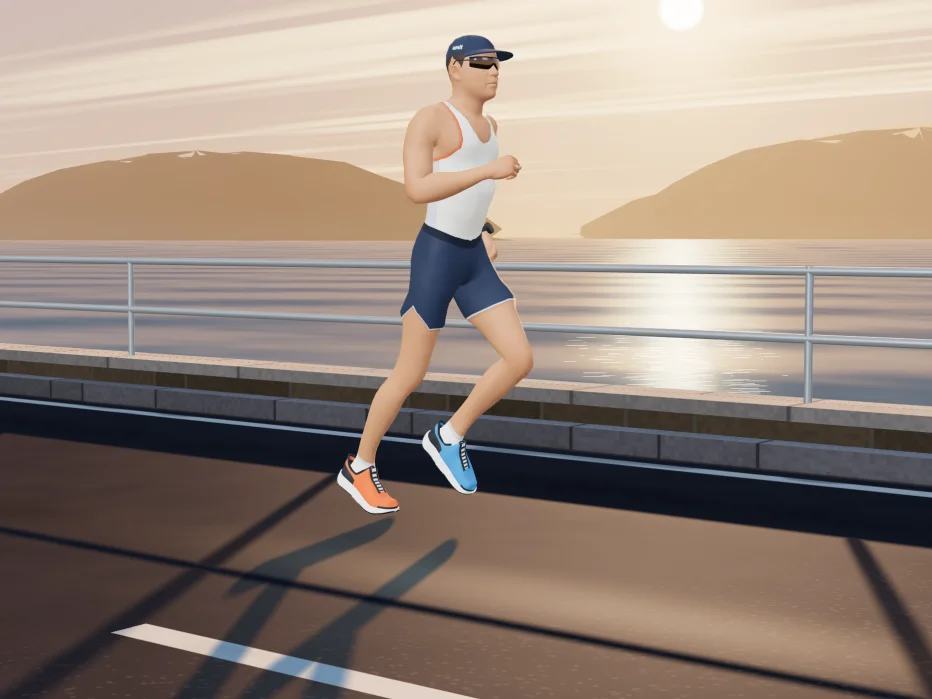
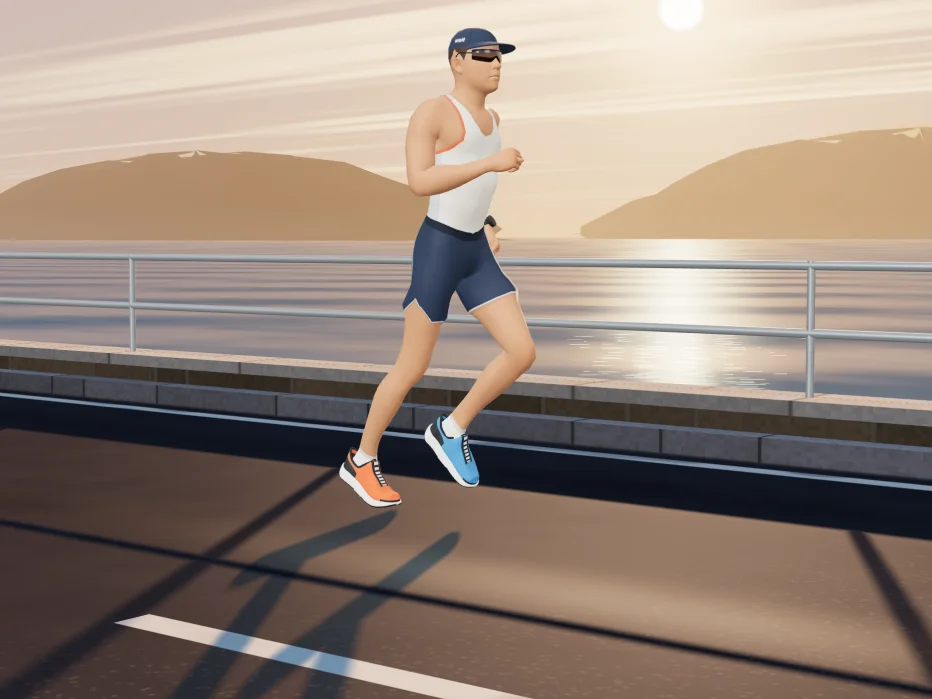
fix(running-form): bring the sun, rim and fill light colours closer so both legs read as one skin tone

Changed region(s): [[0.0, 0.3605, 1.0, 1.0], [0.4356, 0.03, 0.5601, 0.3605]]

diff --git a/explainers/running-form/src/scene/lighting.ts b/explainers/running-form/src/scene/lighting.ts
@@ -14,7 +14,7 @@ const SUN_DISTANCE_M = 100;
 
 const RUN_LIGHT: Record<LightName, LightSetting> = {
   key: {
-    color: '#ffc58e',
+    color: '#ffd9b5',
     intensity: 2.6,
     position: [
       SUN_DIR[0] * SUN_DISTANCE_M,
@@ -22,8 +22,8 @@ const RUN_LIGHT: Record<LightName, LightSetting> = {
       SUN_DIR[2] * SUN_DISTANCE_M,
     ],
   },
-  fill: { color: '#b8c8e4', intensity: 1.22, position: [70, 55, 60] },
-  rim: { color: '#ffb47a', intensity: 1.4, position: [-45, 38, -80] },
+  fill: { color: '#f2dcc4', intensity: 1.22, position: [70, 55, 60] },
+  rim: { color: '#ffd2a8', intensity: 1.4, position: [-45, 38, -80] },
 };
 
 function apply(light: DirectionalLight, setting: LightSetting): () => void {
